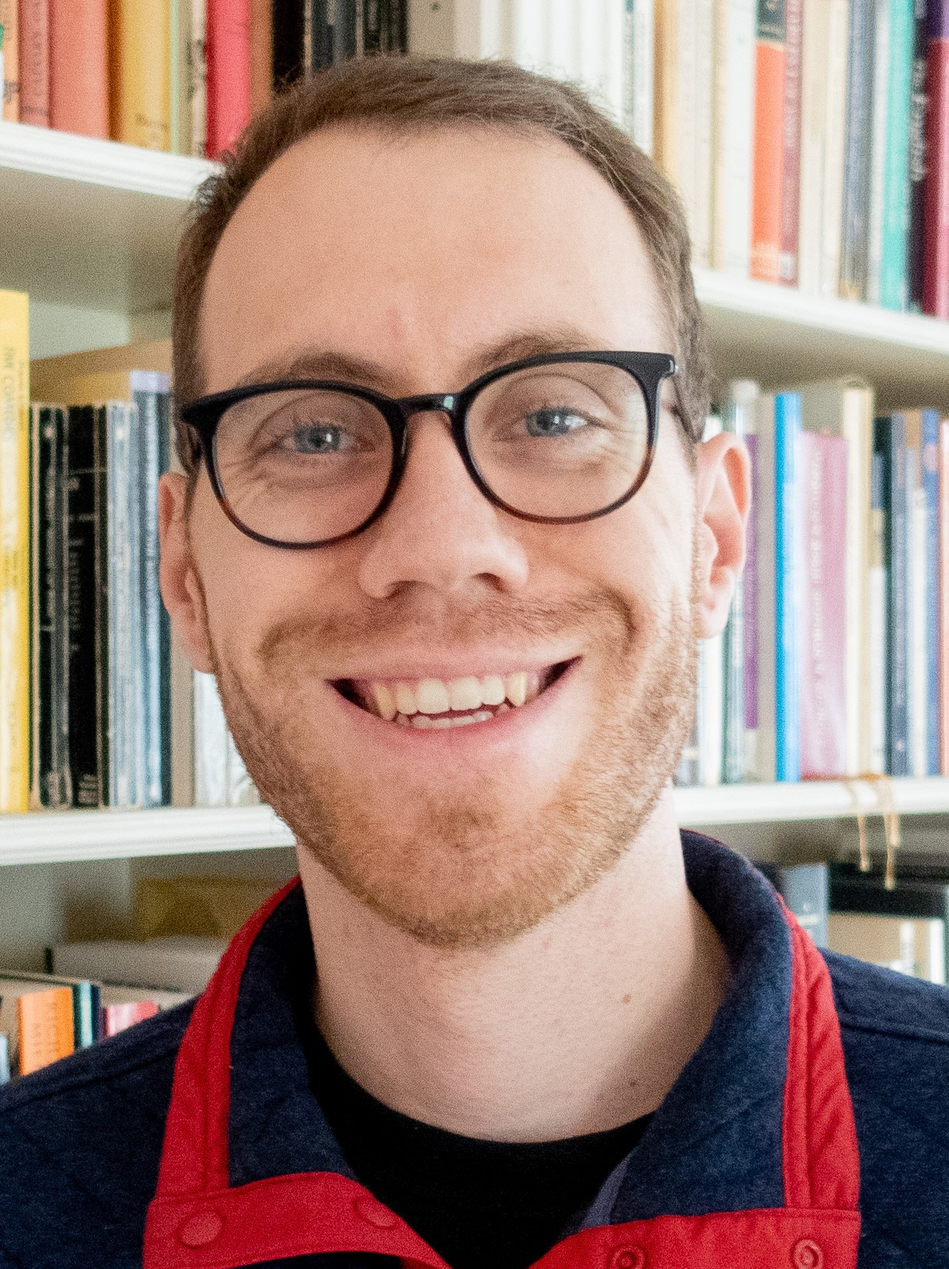
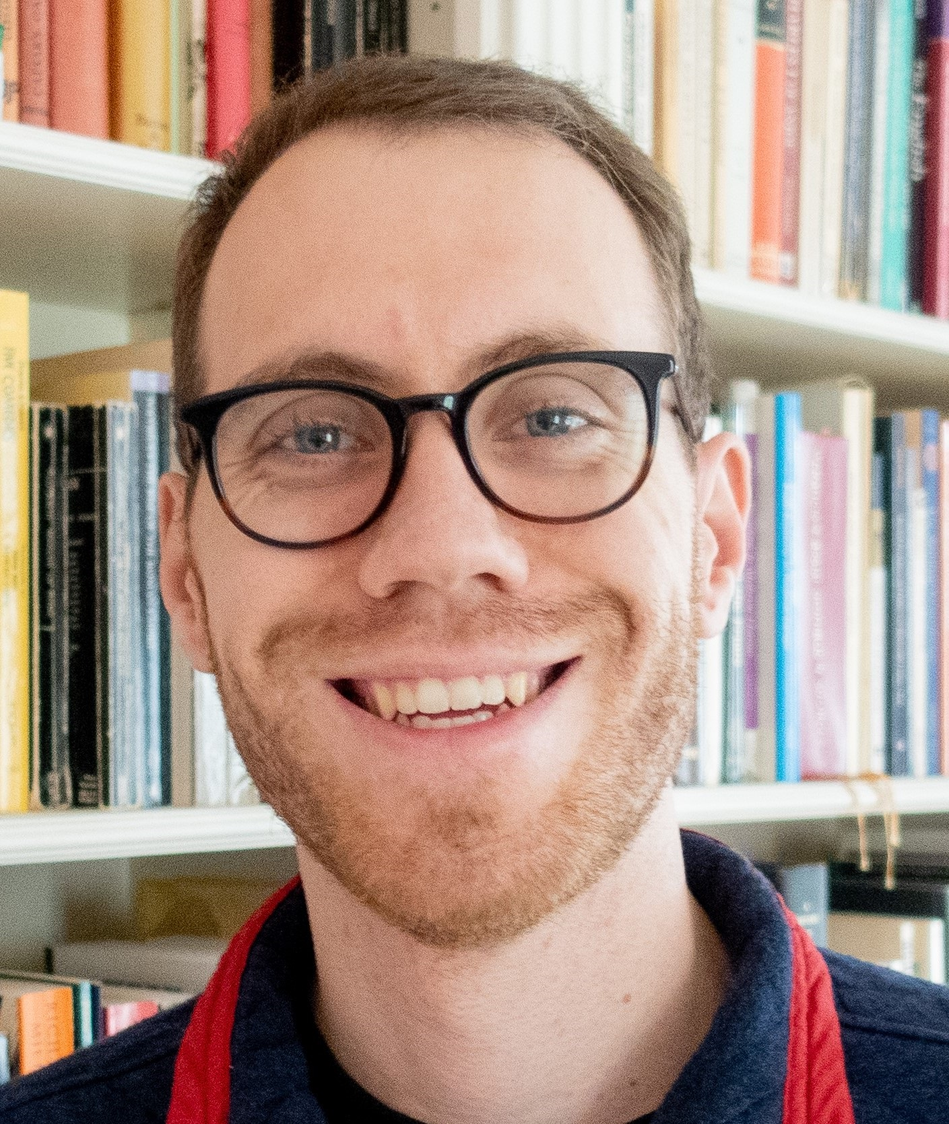
major updates

diff --git a/index.html b/index.html
@@ -29,7 +29,7 @@
 
     .sidebar img {
       width: 140px;
-      height: 140px;
+      height: 160px;
       object-fit: cover;
       border-radius: 50%;
       margin-bottom: 20px;
@@ -53,6 +53,9 @@
       text-decoration: none;
       word-break: break-word;
     }
+    #personal_statement{
+      text-align: left;
+    }
 
     .sidebar a:hover {
       text-decoration: underline;
@@ -61,7 +64,7 @@
     /* Main content */
     .content {
       overflow-y: auto;
-      padding: 40px 50px;
+      padding: 0px 50px 40px 50px;
       flex-grow: 1;
     }
 
@@ -73,6 +76,11 @@
     }
 
     h3 {
+      margin-top: 20px;
+      font-size: 1.1rem;
+      font-weight: 600;
+    }
+    .h3summary{
       margin-top: 20px;
       font-size: 1.1rem;
       font-weight: 600;
@@ -98,10 +106,15 @@
       font-size: 0.9rem;
     }
 
+    summary {
+      cursor: pointer;
+    }
+
     @media (max-width: 768px) {
       body {
         flex-direction: column;
         height: auto;
+        overflow: auto;
       }
       .sidebar {
         width: 100%;
@@ -113,6 +126,10 @@
       .sidebar p {
         text-align: left;
       }
+      #personal_statement{
+        display:none
+      }
+
       .content {
         padding: 20px;
       }
@@ -126,70 +143,117 @@
     <h1>Winston D. Hurst</h1>
     <p><a href="mailto:winstonhurst@ece.ucsb.edu">winstonhurst@ece.ucsb.edu</a></p>
     <p>(214) 476-0770</p>
-    <p><a href="https://linkedin.com/in/yourprofile">LinkedIn</a><br>
-       <a href="https://github.com/yourhandle">GitHub</a></p>
+    <p><a href="https://www.linkedin.com/in/winstondhurst/">LinkedIn</a><br>
+       <a href="https://scholar.google.com/citations?user=WwB1_GMAAAAJ&hl=en">Google Scholar</a></p>
+    <p id="personal_statement">Curious and impact-driven problem solver with a strong foundation in software engineering, optimization, and control systems. Proven success in algorithm design, systems development, and technical leadership, backed by mathematical training and real-world experience.</p>
   </div>
 
   <div class="content">
     <h2>Education</h2>
     <h3>PhD Candidate in Electrical Engineering – UC Santa Barbara <span class="date">2019 – Summer 2025 (Expected)</span></h3>
-    <ul>
+    <b>Research Interests:</b> Optimization and control for communication-aware robotics, mmWave radar sensing, Game theory and mechanism design for control of multiagent systems
+    <details>
+      <summary>Details (TA Positions and Coursework)</summary>
+      <ul>
       <li>Advisor: Dr. Yasamin Mostofi; GPA: 3.96</li>
-      <li>Research: Communication-aware robotics, mmWave radar sensing</li>
-      <li>TA: Optimization, Probability Theory</li>
-      <li>Courses: Optimal Control, Machine Learning, Estimation, etc.</li>
-    </ul>
+      <li>TA: Optimization, Probability Theory; Outstanding ECE TA Award 2019, 2020</li>
+      <li>Courses: Optimal Control (Dynamic Programming), Control Systems, Nonlinear Control Systems, Stochastic Processes, Optimal Estimation and Filtering, Linear Systems, Network Systems, Wireless Communication and Networking, Machine Learning,  Theoretical Machine Learning, Information Theory</li>
+      </ul>
+    </details>
+    
 
-    <h3>BS in Computer Science – Brigham Young University <span class="date">2016</span></h3>
-    <ul>
-      <li>GPA: 3.99, Magna Cum Laude with Honors</li>
-    </ul>
+    <h3>BS in Computer Science – Brigham Young University <span class="date">Graduated 2016</span></h3>
+    <b>Undergraduate Thesis:</b> Dynamic Coalition Formation in Markets with Linear Demand, Advisor: Dr. Sean Warnick; Information and Decision Algorithms (IDeA) Labs
+    <details>
+      <summary>Details (GPA, Honors, and Awards)</summary>
+      <ul>
+        <li>GPA: 3.99, Magna Cum Laude with Honors</li>
+        <li>Full tuition academic scholarship all years</li>
+      </ul>
+    </details>
 
     <h2>Experience</h2>
-    <h3>Graduate Student Researcher – UCSB <span class="date">2019 – Present</span></h3>
-    <ul>
-      <li>Survey lead (Proc. of IEEE); novel planning algorithms; mmWave sensing</li>
-    </ul>
-    <h3>Team Lead – Epic Systems <span class="date">2017 – 2019</span></h3>
-    <ul>
-      <li>Managed 8 devs across 6 projects; introduced project estimation system</li>
-    </ul>
-    <h3>Software Developer – Epic Systems <span class="date">2016 – 2017</span></h3>
-    <ul>
-      <li>Prototyped mobile voice assistant; built NLP clinical tools</li>
-    </ul>
+      <h3>Graduate Student Researcher – UCSB <span class="date">2019 – Present</span></h3>
+      <ul>
+        <li>Led a group of 4 authors in a comprehensive survey of autonomous vehicles in 6G communication networks, appearing in <em>Proceedings of the IEEE</em> [Impact factor: 23.2]</li>
+        <li>Extracted crowd information (size, dominant movement patterns) with novel state-of-the-art mmWave sensing pipeline</li>
+        <li>Designed and implemented cutting-edge electromagnetic metasurface capable of beamforming in 4 directions simultaneously</li>
+        <li>Accelerated iterative design process with custom python script server for high-end EM simulator (Ansys HFSS)</li>
+        <li>Developed object oriented python library for scientific wireless communication channel simulation and prediction</li>
+        <li>Optimized robotic relay vist sequence using novel DRL algorithm implemented in PyTorch with CGAL and IBM CPLEX</li>
+      </ul>
+
+      <h3>Team Lead – Epic Systems <span class="date">2017 – 2019</span></h3>
+      <ul>
+        <li>Led team of 8 developers to deliver 6 enterprise-grade international software projects (> $1M total budget), coordinating across stakeholders and meeting strict timelines</li>
+        <li>Eliminated project budget overruns through the design and rollout of a standardized estimation process, enabling improved forecasting and resource planning</li>
+        <li>Ensured team was sufficiently staffed by evaluating projected future workloads and advocating for 2 additional developers</li>
+      </ul>
+
+      <h3>Software Developer – Epic Systems <span class="date">2016 – 2017</span></h3>
+      <ul>
+        <li>Full stack development, including OOP and MVC frontend in VB and C#</li>
+        <li>Developed physician voice assistant prototype for mobile devices in team of 4</li>
+        <li>Built NLP application for parsing clinical data from physician notes in team of 3</li>
+      </ul>
+    
 
     <h2>Skills</h2>
     <ul>
-      <li><strong>Motion Planning & Control:</strong> DP, Optimal Control, DRL, CBFs, MIP</li>
-      <li><strong>Languages:</strong> Python, C++, Matlab, Java, VB, MUMPS</li>
-      <li><strong>Tools:</strong> Git, Linux, PyTorch, CGAL, CPLEX</li>
-      <li><strong>Concepts:</strong> MVC, APIs, FSM, multithreading</li>
+      <li><strong>Optimization, Control, and Trajectory Design:</strong> Convex Optimization, Dynamic Programming, Optimal Control, DRL, CBFs, MIP, VRP</li>
+      <li><strong>Scientific Computing:</strong> PyTorch, CVXPY, CLARABEL, CGAL, CPLEX</li>
+      <li><strong>Coding Languages:</strong> Python, C++, Matlab, Java, VB, MUMPS, C#</li>
+      <li><strong>Coding Tools and Concepts:</strong> Git, Linux, OOP, MVC, APIs, FSM, multithreading</li>
     </ul>
 
+    <h2>Submitted Patent</h2>
+    Y. Mostofi, A. Pallaprolu, B. Korany, and W. Hurst, "<a href="https://patentcenter.uspto.gov/applications/18904812">Exploiting diffraction for sensing with rf signals and/or for rf field programming</a>," <em>US Patent App. 18/904,812</em>, 2025
+
     <h2>Publications</h2>
+
     <h3>Communication-Aware Path Planning</h3>
     <ul>
-      <li>“Unmanned Vehicles in 6G Networks,” <em>Proc. IEEE</em>, 2025</li>
-      <li>“Minimizing Wait Time,” <em>IEEE ICC</em>, 2024</li>
-      <li>Others in CDC, TWC, ICC</li>
+      <li>W. Hurst, S. Evmorfos, A. Petropulu, and Y. Mostfoi, "<a href="https://arxiv.org/pdf/2404.14738">Uncrewed vehicles in 6G networks: A unifying treatment of problems, formulations, and tools</a>," <em>Proc. IEEE</em>, 2025</li>
+      <li>W. Hurst and Y. Mostofi, "<a href="https://web.ece.ucsb.edu/~ymostofi/papers/ICC2024_HurstMostofi.pdf">Minimizing Wait Time and Age of Information in Mobility-Enabled Communication Systems</a>," <em>International Conference on Communications</em>, 2024</li>
+      <li>W. Hurst and Y. Mostofi, "<a href="https://web.ece.ucsb.edu/~ymostofi/papers/CDC2023__HurstMostofi.pdf">Optimal Dynamic Trajectories for UAVs in Mobility-Enabled Relay Systems</a>," <em>Conference on Decision and Control (CDC)</em>, 2023</li>
+      <li>W. Hurst and Y. Mostofi, "<a href="https://arxiv.org/pdf/2208.10736">Optimization of Mobile Robotic Relay Operation for Minimal Average Wait Time</a>,", <em>IEEE Transactions on Wireless Communications</em>, 2022</li>
+      <li>W. Hurst, H. Cai, and Y. Mostofi, "<a href="">Communication-aware RRT*: Path planning for robotic communication operation in obstacle environments</a>," <em>IEEE International Conferene on Communications</em>, 2021</li>
     </ul>
 
     <h3>RF Sensing and mmWave Radar</h3>
     <ul>
-      <li>MobiCom 2024 & 2023 – crowd analytics and RF edge programming</li>
+      <li> A. Pallaprolu, W. Hurst, and Y. Mostofi, "<a href="https://arxiv.org/pdf/2505.01625">Embracing Diffraction: A Paradigm Shift in Wireless Sensing and Communication</a>," <em> submitted IEEE Journal of Selected Topics in Electromagnetics, Antennas and Propagation</em> 2025</li>
+      <li>A. Pallaprolu, A.P. Kattekola, W. Hurst, U. Madhow, A. Sabharwal, and Y. Mostofi, "<a href="https://arxiv.org/pdf/2410.09200">Crowd Size Estimation for Non-Uniform Spatial Distributions with mmWave Radar</a>," <em>submitted Asilomar</em>, 2025 </li>
+      <li>A. Pallaprolu, P. Peng, S. Sandhu, W. Hurst, and Y. Mostofi, "<a href="https://dl.acm.org/doi/pdf/10.1145/3636534.3690664">Crowd Analytics with a Single mmWave Radar</a>," <em>Proc. 30th Annual Inter. Conf. on Mobile Computing and Networking (MobiCom '24)</em>, 2024</li>
+      <li>A. Pallaprolu, W. Hurst, and Y. Mostofi, "<a href="https://dl.acm.org/doi/pdf/10.1145/3570361.3613266">I beg to diffract: RF field programming with edges</a>," <em>Proc. 29th Annual Inter. Conf. on Mobile Computing and Networking (MobiCom '23)</em>, 2023</li> </li>
     </ul>
 
-    <h3>Dynamic Relay Selection</h3>
+    <h3>Mechanism Design for Dynamic Relay Selection</h3>
     <ul>
-      <li>Accepted to IEEE TWC, ACC 2025, and GLOBECOM 2024</li>
+      <li>W. Hurst and Y. Mostofi, "<a href="https://arxiv.org/pdf/2410.15214">Relay Incentive Mechanisms Using Wireless Power Transfer in Non-Cooperative Networks</a>," <em>IEEE Transactions on Wireless Communications</em>, 2025 </li>
+      <li>W. Hurst and Y. Mostofi, "<a href="https://arxiv.org/pdf/2410.04353">Multi-Attribute Auctions for Efficient Operation of Non-Cooperative Relaying Systems</a>," <em>American Control Conference (ACC)</em>, 2025</li>
+      <li> W. Hurst, A. Pallaprolu, and Y. Mostofi, "<a href="https://arxiv.org/pdf/2404.14729">Emergent cooperation for energy-efficient connectivity via wireless power transfer</a>," <em>IEEE Global Communications Conference (GLOBECOM)</em>, 2024
     </ul>
+
 
     <h2>Volunteer Activities</h2>
-    <ul>
-      <li><strong>Steelhead Conservation Lead</strong> – Santa Barbara Flyfishers (2023–)</li>
-      <li><strong>GED Tutor (Spanish)</strong> – Academia Latina (2016–2018)</li>
-    </ul>
+    <details>
+      <summary><strong>Steelhead Conservation Lead</strong> – Santa Barbara Flyfishers (2023–2025)</summary>
+      <ul style="margin-top: 5px;">
+        <li>Delivered public comments to the California Fish and Game Commission in support of listing Southern Steelhead as endangered, representing Santa Barbara Flyfishers in a successful coalition effort with other NGO's.</li>
+        <li>Designed and led a community outreach campaign engaging 100+ attendees, advocating for steelhead conservation.</li>
+        <li>Coordinated migration barrier removal project with California Trout on Zaca Creek at Kohler Winery.</li>
+        <li>Addressed California State Water Board, encouraging stricter total maximum daily load limits on the lower Santa Ynez River.</li>
+      </ul>
+    </details>
+
+    <details>
+      <summary><strong>GED Tutor (Spanish)</strong> – Academia Latina (2016–2018)</summary>
+      <ul style="margin-top: 5px;">
+        <li>Taught math, science, reading, and social studies to adults in Spanish.</li>
+        <li>Tutored students one on one as well as in larger classroom settings.</li>
+      </ul>
+    </details>
   </div>
 
 </body>
